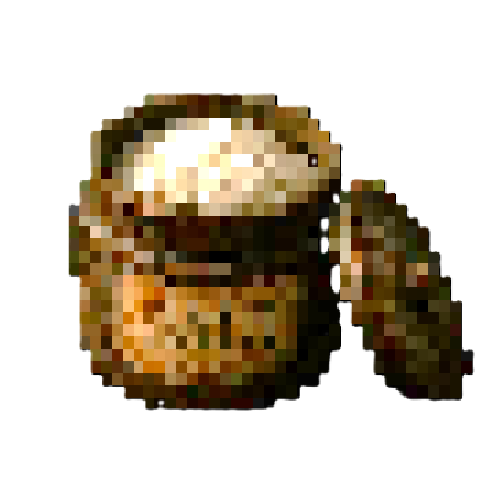
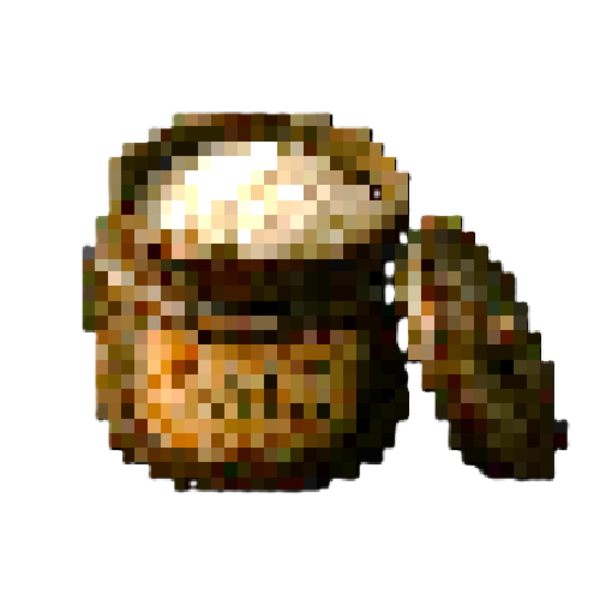
Fix: adjusted sprites depending on what item

diff --git a/my-game/main.cpp b/my-game/main.cpp
@@ -2150,7 +2150,13 @@ int main()
 
                 // Smaller item size + apply illusion visual scale
                 Rectangle drawRect = it.rect;
-                float finalScale = 0.80f * visualScale; // Apply pulsing visual scale
+
+                float itemScale = 0.80f;
+
+                if (it.type == HEART || it.type == BABY || it.type == SALT || it.type == BLOOD) itemScale = 0.95f;
+                if (it.type == TROLLFACE || it.type == GARLIC) itemScale = 0.75f;
+
+                float finalScale = itemScale * visualScale;  // Apply pulsing visual scale
 
                 Rectangle smallRect = {
                     drawRect.x + (drawRect.width * (1.0f - finalScale) / 2),
